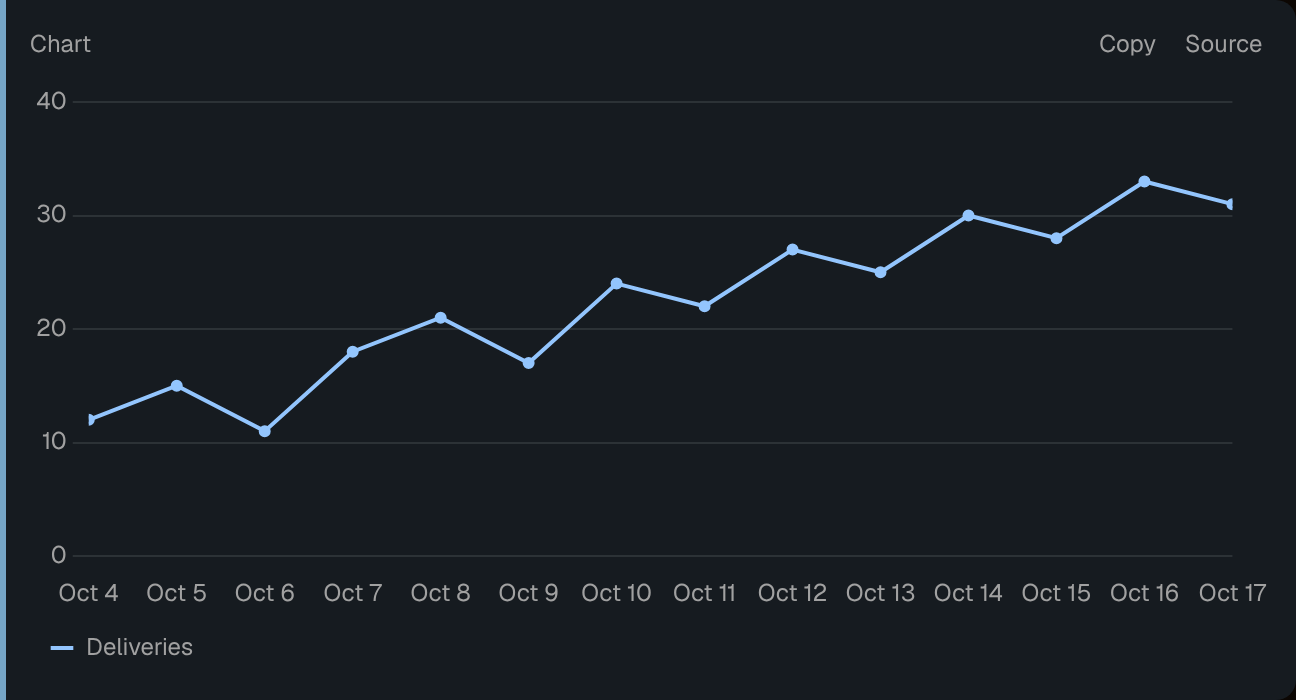
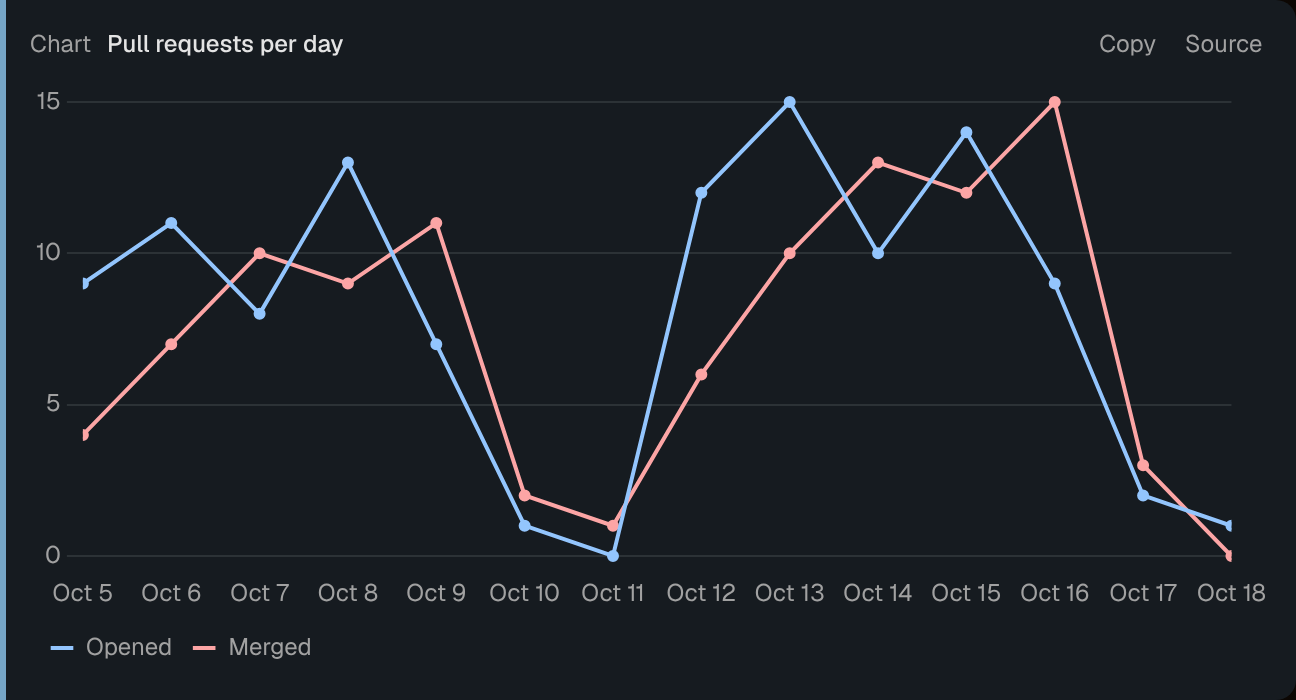
Site: two-series chart example on Custom Markdown
The chart capture now plots pull requests opened and merged per day
over two working weeks, with the weekend dip, and the Markdown tab
shows the matching two-series mapping.

Claude-Session: https://claude.ai/code/session_0195AcSYAqhV7DQ6ZzuWdADh

diff --git a/site/pages/docs/custom-markdown.html b/site/pages/docs/custom-markdown.html
@@ -42,9 +42,13 @@ dialog Archive “Release plan 0.5”?
 {
   &quot;version&quot;: 1,
   &quot;type&quot;: &quot;line&quot;,
-  &quot;collection&quot;: &quot;deliveries&quot;,
+  &quot;title&quot;: &quot;Pull requests per day&quot;,
+  &quot;collection&quot;: &quot;pull_requests&quot;,
   &quot;x&quot;: {&quot;field&quot;: &quot;day&quot;, &quot;type&quot;: &quot;date&quot;},
-  &quot;y&quot;: [{&quot;field&quot;: &quot;count&quot;, &quot;label&quot;: &quot;Deliveries&quot;}]
+  &quot;y&quot;: [
+    {&quot;field&quot;: &quot;opened&quot;, &quot;label&quot;: &quot;Opened&quot;},
+    {&quot;field&quot;: &quot;merged&quot;, &quot;label&quot;: &quot;Merged&quot;}
+  ]
 }
 ```">Copy</button></div>
   <div class="panel" role="tabpanel" id="p-chart-v" aria-labelledby="t-chart-v"><img class="l" src="/img/blocks/chart-light.png" alt="The chart block as the editor shows it" loading="lazy"><img class="d" src="/img/blocks/chart-dark.png" alt="" loading="lazy"></div>
@@ -52,9 +56,13 @@ dialog Archive “Release plan 0.5”?
 {
   &quot;version&quot;: 1,
   &quot;type&quot;: &quot;line&quot;,
-  &quot;collection&quot;: &quot;deliveries&quot;,
+  &quot;title&quot;: &quot;Pull requests per day&quot;,
+  &quot;collection&quot;: &quot;pull_requests&quot;,
   &quot;x&quot;: {&quot;field&quot;: &quot;day&quot;, &quot;type&quot;: &quot;date&quot;},
-  &quot;y&quot;: [{&quot;field&quot;: &quot;count&quot;, &quot;label&quot;: &quot;Deliveries&quot;}]
+  &quot;y&quot;: [
+    {&quot;field&quot;: &quot;opened&quot;, &quot;label&quot;: &quot;Opened&quot;},
+    {&quot;field&quot;: &quot;merged&quot;, &quot;label&quot;: &quot;Merged&quot;}
+  ]
 }
 ```</pre></div></div>
   <p>A line chart takes one x field, a number or a date, and one to eight numeric y series with optional labels and units. <code>layout: "panels"</code> draws one small chart per series; <code>missing</code> decides whether a gap breaks or bridges a line. The same block with <code>"type":"table"</code> and up to thirty <code>columns</code>, each with a field and a text, number, date or link format, is a data table with sorting. Both omit records that fail the collection's schema and say how many they left out.</p>
